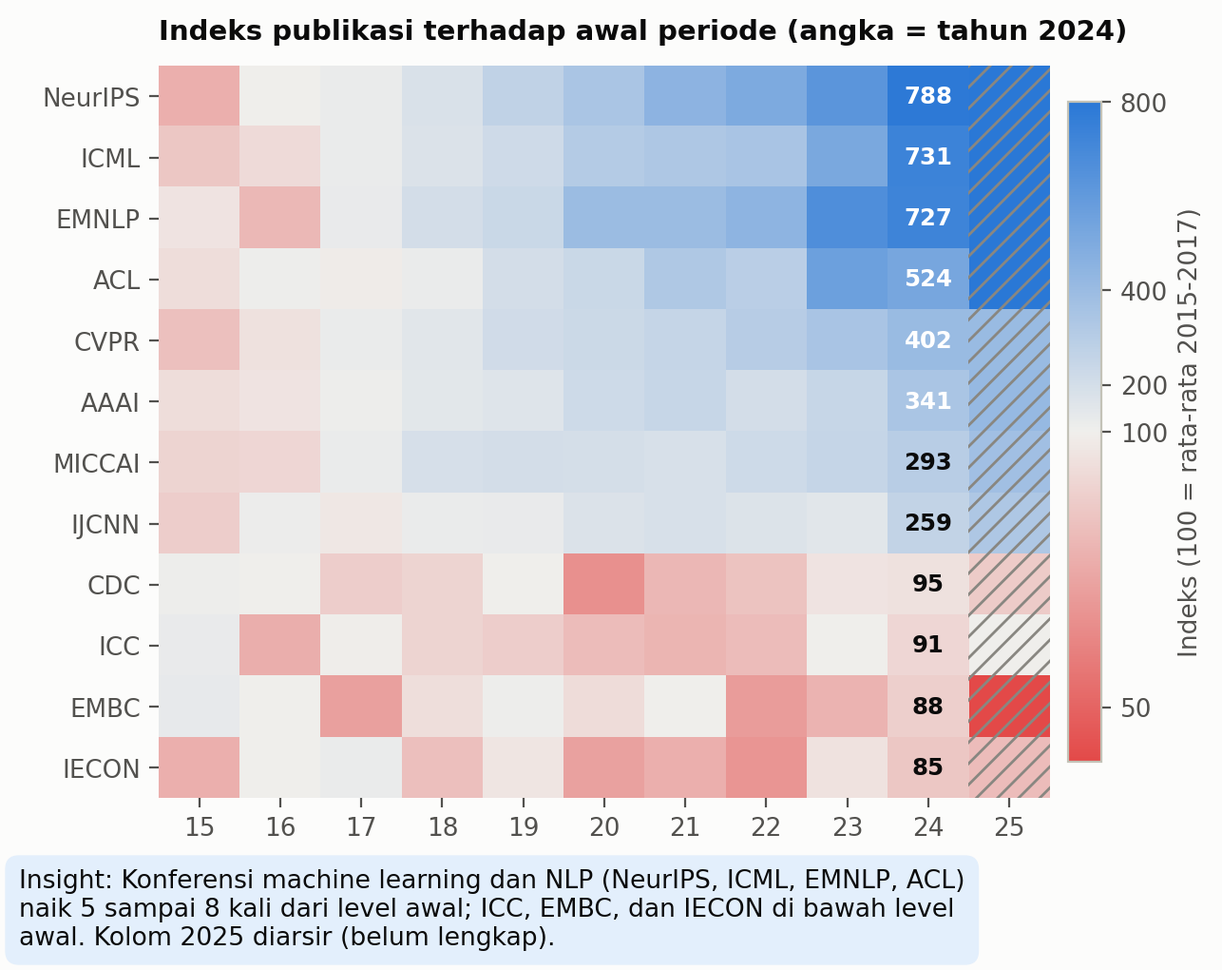
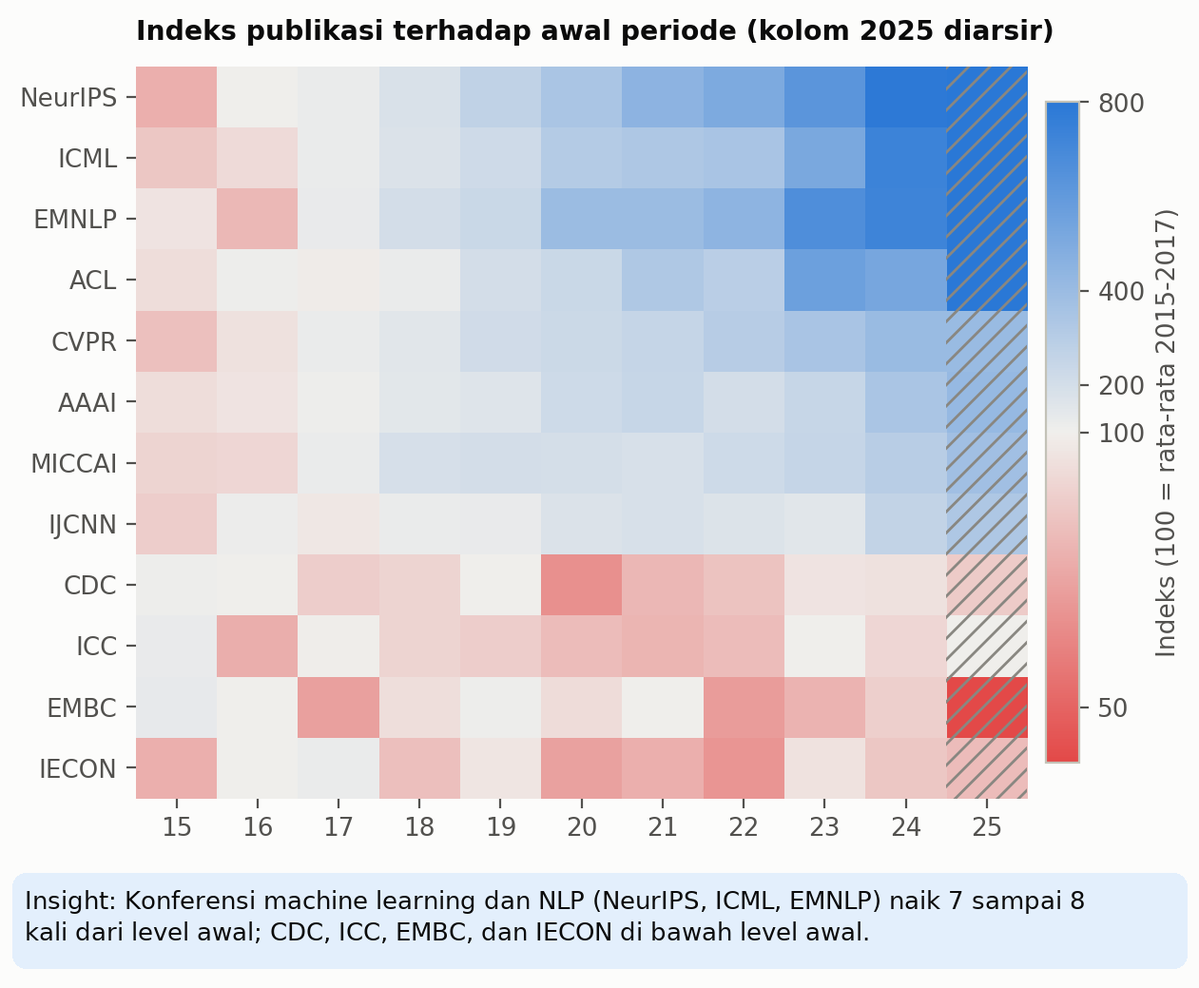
refactor(laporan): susun ulang bab sesuai brief penugasan
Bab hasil dipecah menjadi Hasil Preprocessing, Conference Popularity Analysis, Pembentukan Transactional Database, FPM, Association Rule, Performa, dan Temporal (yang belum dikerjakan dibiarkan kosong), ditambah Analisis dan Interpretasi serta Kesimpulan. Gambar PNG memakai versi beranotasi.

diff --git a/laporan/bab/bab6-transaksi.tex b/laporan/bab/bab6-transaksi.tex
@@ -1,7 +1,7 @@
-\section{Pembentukan \textit{Transactional Database} (\textit{Task} 3)}
-\label{sec:hasil-t3}
+\chapter{HASIL PEMBENTUKAN \textit{TRANSACTIONAL DATABASE}}
+\label{chap:transaksi}
 
-\subsection{Pembentukan dua \textit{database}}
+\section{Pembentukan dua \textit{database}}
 \label{sec:hasil-bentuk}
 Dua \textit{transactional database} dibentuk dari 7.870.902 pasangan makalah-penulis dengan aturan pada Subbab~\ref{sec:met-transaksi}. Pada \textit{author-based}, terbentuk 1.821.757 transaksi dengan 4.853.675 pasangan transaksi-item. Pada \textit{author-year-based}, terbentuk 4.085.594 transaksi dengan 6.497.515 pasangan transaksi-item. Berkas hasil dan cuplikan isinya ditunjukkan pada Lampiran~\ref{lamp:transaksi}.
 
@@ -14,7 +14,7 @@ Gambar~\ref{fig:ilustrasi} memperlihatkan perbedaannya pada satu penulis nyata, 
 \label{fig:ilustrasi}
 \end{figure}
 
-\subsection{Sepuluh contoh transaksi}
+\section{Sepuluh contoh transaksi}
 \label{sec:hasil-contoh}
 Contoh dipilih acak (\textit{seed} 42) untuk tiap ukuran transaksi sehingga rentang dari kecil sampai besar terlihat. Tabel~\ref{tab:contoh-a} menunjukkan sepuluh transaksi \textit{author-based} dan Tabel~\ref{tab:contoh-ay} sepuluh transaksi \textit{author-year-based}. Nama \textit{venue} yang panjang dipotong dan \textit{venue} dengan nama sama diberi kunci dalam kurung siku.
 
@@ -64,7 +64,7 @@ Contoh dipilih acak (\textit{seed} 42) untuk tiap ukuran transaksi sehingga rent
 
 Transaksi berukuran empat sampai delapan item umumnya berisi \textit{venue} dari bidang yang tampak berdekatan. Contoh 25 item (\textit{Haibo Zhang}) mencampur banyak \textit{venue} yang tidak seragam dan kemungkinan menggabungkan lebih dari satu orang yang bernama sama. Pada \textit{author-year-based}, penulis yang sama dapat muncul pada beberapa transaksi dengan tahun berbeda sehingga tahun menjadi bagian dari identitas transaksi. Transaksi besar jauh lebih langka pada \textit{author-year-based}: hanya 1.261 transaksi (0,03\%) berisi lebih dari 20 item, dibanding 17.533 (0,96\%) pada \textit{author-based}.
 
-\subsection{Jumlah transaksi, item unik, dan distribusi}
+\section{Jumlah transaksi, item unik, dan distribusi}
 \label{sec:hasil-statistik-tx}
 Tabel~\ref{tab:statistik-tx} merangkum statistik kedua \textit{database}. Kedua \textit{database} memuat seluruh 4.373 \textit{venue} sebagai item unik. \textit{Author-year-based} memiliki 2,24 kali lebih banyak transaksi karena penulis yang aktif beberapa tahun menjadi beberapa transaksi. Namun, jumlah pasangan transaksi-item hanya naik 1,34 kali sehingga transaksinya jauh lebih kecil.
 
@@ -122,7 +122,7 @@ lebih dari 20 & 17.533 & 0,96 & 1.261 & 0,03 \\
 \label{fig:komposisi}
 \end{figure}
 
-\subsection{Jumlah makalah di balik satu transaksi}
+\section{Jumlah makalah di balik satu transaksi}
 \label{sec:hasil-npaper}
 Seorang penulis dapat menerbitkan beberapa makalah pada satu tahun, dan hal itu tidak terlihat pada transaksinya. Pada \textit{author-year-based}, setiap tahun menjadi transaksi terpisah sehingga 2024 dan 2025 menjadi dua transaksi. Pada \textit{author-based}, seluruh tahun digabung dan tahun tidak tersimpan. Dalam satu transaksi, beberapa makalah pada \textit{venue} yang sama hanya menjadi satu item, dan beberapa makalah pada \textit{venue} berbeda menjadi beberapa item. Jumlah makalah tidak tersimpan pada transaksi, tetapi tersimpan pada kolom \texttt{n\_paper} tabel indeks dan dapat ditelusuri per makalah dari \texttt{paper\_author.parquet}. Tabel~\ref{tab:npaper} mengukur seberapa besar hal ini terjadi.
 
@@ -147,7 +147,7 @@ Transaksi dengan makalah lebih banyak daripada item & 29,9\% & 17,4\% \\
 
 Sifat ini adalah bawaan model transaksi standar (ada atau tidak ada) dan sesuai bunyi spesifikasi, yaitu daftar konferensi tempat penulis memublikasikan makalah. Keuntungannya, \textit{support} menjadi ukuran berapa banyak penulis (atau pasangan penulis dan tahun) yang menerbitkan di sebuah \textit{venue}, bukan berapa banyak makalah sehingga penulis yang sangat produktif pada satu \textit{venue} tidak mendominasi hasil. Kerugiannya, kekuatan keterkaitan hilang karena penulis dengan satu makalah di ICML dan satu di NeurIPS dihitung sama dengan penulis inti yang menerbitkan puluhan makalah di keduanya. Model himpunan tetap dipakai dan hal ini dicatat sebagai keterbatasan. Contohnya pada Gambar~\ref{fig:ilustrasi}: penulis tersebut menerbitkan dua makalah pada 2023 dan dua pada 2024, tetapi transaksi tiap tahun itu hanya berisi satu item karena kedua makalah berada pada \textit{venue} yang sama.
 
-\subsection{\textit{Support} item dan ambang \textit{min\_sup}}
+\section{\textit{Support} item dan ambang \textit{min\_sup}}
 \label{sec:hasil-support-item}
 Dua ukuran berikut tidak diminta langsung, tetapi menentukan rancangan \textit{Task} 4. Tabel~\ref{tab:item-frequent} menunjukkan banyaknya item yang lolos tiap \textit{min\_sup}.
 
@@ -178,7 +178,7 @@ Dua ukuran berikut tidak diminta langsung, tetapi menentukan rancangan \textit{T
 
 \textit{Support} setiap \textit{venue} lebih rendah pada \textit{author-year-based} (Gambar~\ref{fig:support-item}) karena penyebutnya naik 2,24 kali, sedangkan jumlah transaksi yang memuat \textit{venue} naik lebih sedikit. NeurIPS memiliki \textit{support} tertinggi, yaitu 3,17\% pada \textit{author-based} dan 2,34\% pada \textit{author-year-based}, disusul CVPR (2,62\% dan 2,07\%), AAAI (2,55\% dan 1,72\%), ICASSP (2,31\% dan 1,64\%), dan EMBC (2,16\% dan 1,38\%). Ambang yang sama meloloskan lebih sedikit item pada \textit{author-year-based}, dan ambang absolutnya lebih tinggi (4.086 dibanding 1.822 transaksi pada 0,1\%). Hanya 13,1\% \textit{venue} (574 dari 4.373) yang lolos \textit{min\_sup} 0,1\%, dan hanya enam yang lolos 2\%. Karena pasangan \textit{venue} teratas hanya memiliki \textit{support} 1,02\% (Tabel~\ref{tab:top-pasangan}), \textit{min\_sup} 2\% diperkirakan tidak menghasilkan \textit{itemset} berukuran dua pada \textit{Task} 4. Ini perkiraan yang harus dikonfirmasi oleh hasil \textit{mining}.
 
-\subsection{Beban kombinasi}
+\section{Beban kombinasi}
 \label{sec:hasil-beban}
 Beban kombinasi $B = \sum_{t} \binom{|t|}{2}$ adalah jumlah pasangan item yang dapat dibentuk dari seluruh transaksi. Ukuran ini kasar dan bukan waktu proses. Tabel~\ref{tab:beban} menunjukkan bahwa beban terkonsentrasi pada transaksi terbesar dan bahwa pemangkasan item di bawah \textit{min\_sup} memotong beban dengan tajam.
 
@@ -207,12 +207,12 @@ Porsi dari 10\% transaksi terbesar & 91,7\% & 83,1\% \\
 
 Sebanyak 0,1\% transaksi terbesar (sekitar 1.800) menanggung 27,8\% beban \textit{author-based}, dan 10\% terbesar menanggung 91,7\%. \textit{Author-year-based} memiliki beban 3,7 kali lebih rendah dengan konsentrasi yang lebih rendah. Pemangkasan item mengurangi beban \textit{author-based} dari 21,9 juta menjadi 10,2 juta pada 0,1\% dan 82.850 pada 2\%. Dugaan bahwa Apriori paling berat pada \textit{author-based} dengan \textit{min\_sup} 0,1\% harus dibuktikan pada \textit{Task} 6.
 
-\subsection{Perbedaan kedua representasi}
+\section{Perbedaan kedua representasi}
 \label{sec:hasil-banding-repr}
-\subsubsection{Perbedaan makna}
+\subsection{Perbedaan makna}
 Pada \textit{author-based}, dua \textit{venue} dianggap muncul bersama jika seorang penulis pernah menerbitkan di keduanya kapan saja pada 2015--2025. Pertanyaan yang dijawabnya adalah \textit{venue} apa saja yang dipilih penulis yang sama selama sebelas tahun. Pada \textit{author-year-based}, keduanya harus diterbitkan pada tahun yang sama sehingga pertanyaan yang dijawabnya adalah \textit{venue} apa yang dipilih bersamaan oleh penulis yang sama pada tahun yang sama. Pada penulis contoh (Gambar~\ref{fig:ilustrasi}), \textit{author-based} menyediakan 15 pasangan \textit{venue} yang dapat muncul bersama, sedangkan \textit{author-year-based} hanya enam. Selisih sembilan pasangan adalah pasangan lintas tahun, misalnya CCTA pada 2021 dengan ACC pada 2024. Hal ini bukan aturan umum karena pasangan yang berulang pada beberapa tahun dihitung berulang pada \textit{author-year-based}.
 
-\subsubsection{Perbandingan pada seluruh \textit{database}}
+\subsection{Perbandingan pada seluruh \textit{database}}
 Pasangan dihitung hanya antar \textit{venue} dengan \textit{support} minimal 0,1\% pada \textit{author-based} (574 \textit{venue}, 164.451 pasangan yang mungkin). Ini pratinjau perbandingan, bukan \textit{mining} sebenarnya (\textit{Task} 4). Tabel~\ref{tab:banding-repr} merangkum hasilnya dan Tabel~\ref{tab:top-pasangan} menunjukkan sepuluh pasangan teratas.
 
 \begin{table}[ht]
@@ -266,7 +266,7 @@ ICRA + IROS & 11.860 & 0,65\% & 9.502 & 0,23\% & 11 & 0,80 \\
 
 \textit{Support} pasangan turun tajam pada \textit{author-year-based} (median 0,29 kali; Gambar~\ref{fig:support-pasangan}). Penurunan ini hampir seluruhnya berasal dari penyebut. Jumlah transaksi yang memuat pasangan hanya turun ke 0,65 kali, sedangkan jumlah transaksi \textit{database} naik 2,24 kali (0,65 dibagi 2,24 sama dengan sekitar 0,29). Jadi, \textit{min\_sup} yang sama berarti ambang absolut yang lebih tinggi pada \textit{author-year-based}. Urutan relatifnya terjaga: 18 dari 20 pasangan teratas sama dan korelasi peringkatnya 0,892, dengan ICML+NeurIPS tetap peringkat satu dan ICLR+NeurIPS peringkat dua. Perubahan peringkat memperlihatkan efek representasi. ACL+EMNLP naik dari peringkat 6 ke 3 dan jumlah transaksinya bahkan 1,05 kali \textit{author-based}, karena penulis yang konsisten menerbitkan di keduanya setiap tahun dihitung berulang. AAAI+NeurIPS turun dari peringkat 3 ke 6. Hanya 4 dari 100 pasangan teratas yang mencapai rasio minimal 1.
 
-\subsubsection{Kasus ekstrem: konferensi dua tahunan berselang}
+\subsection{Kasus ekstrem: konferensi dua tahunan berselang}
 ICCV dan ECCV adalah konferensi dua tahunan yang berselang tahun sehingga tidak pernah diselenggarakan pada tahun yang sama (Tabel~\ref{tab:iccv}). Pada \textit{author-based}, 27.077 transaksi memuat ICCV, 23.591 memuat ECCV, dan 10.051 memuat keduanya. Pada \textit{author-year-based}, tidak ada satu pun transaksi yang memuat keduanya. Asosiasi nyata antara kedua komunitas ini tidak dapat terdeteksi sama sekali pada \textit{author-year-based}. Ini keterbatasan struktural, bukan kebetulan data.
 
 \begin{table}[ht]
@@ -284,7 +284,7 @@ ECCV & 0 & 1.986 & 0 & 3.770 & 0 & 6.001 & 0 & 7.869 & 0 & 11.930 & 0 \\
 \end{tabular}
 \end{table}
 
-\subsection{Kelebihan dan keterbatasan untuk \textit{frequent pattern mining}}
+\section{Kelebihan dan keterbatasan untuk \textit{frequent pattern mining}}
 \label{sec:hasil-kelebihan}
 Tabel~\ref{tab:kelebihan} merangkum kelebihan dan keterbatasan kedua representasi untuk \textit{frequent pattern mining}.
 
@@ -321,7 +321,7 @@ Tabel~\ref{tab:kelebihan} merangkum kelebihan dan keterbatasan kedua representas
 
 Kedua representasi menjawab pertanyaan yang berbeda, dan keduanya valid. Untuk pertanyaan \textit{Task} 4, yaitu kombinasi konferensi yang sering muncul bersama dalam riwayat publikasi penulis, \textit{author-based} lebih sesuai karena riwayat yang dimaksud mencakup seluruh periode. \textit{Author-year-based} lebih sesuai untuk analisis temporal (Bagian E) karena tahun menjadi bagian transaksi dan periode dapat dipisahkan. Pada kedua representasi, mayoritas transaksi hanya berisi satu item dan sebagian kecil transaksi besar menanggung sebagian besar beban kombinasi. Hal ini penting untuk \textit{Task} 4 karena \textit{min\_sup} dihitung terhadap seluruh transaksi dan waktu proses kemungkinan didominasi transaksi besar.
 
-\subsection{Jawaban pertanyaan \textit{Task} 3}
+\section{Jawaban pertanyaan \textit{Task} 3}
 \label{sec:jawab-t3}
 \textbf{Pembentukan database.} Dua \textit{transactional database} dibentuk dari 7.870.902 pasangan makalah-penulis dengan \textit{venue} sebagai item. Pada \textit{author-based}, setiap transaksi mewakili satu penulis dan berisi himpunan \textit{venue} tempat ia menerbitkan makalah selama 2015--2025 sehingga terbentuk 1.821.757 transaksi. Pada \textit{author-year-based}, setiap transaksi mewakili satu kombinasi penulis dan tahun dan berisi himpunan \textit{venue} pada tahun itu sehingga terbentuk 4.085.594 transaksi. Kedua \textit{database} memuat 4.373 \textit{venue} sebagai item unik.
 

diff --git a/laporan/bab/bab5-popularitas.tex b/laporan/bab/bab5-popularitas.tex
@@ -1,5 +1,5 @@
-\section{Analisis Popularitas Konferensi (\textit{Task} 2)}
-\label{sec:hasil-t2}
+\chapter{HASIL \textit{CONFERENCE POPULARITY ANALYSIS}}
+\label{chap:popularitas}\label{sec:hasil-t2}
 Popularitas diukur dengan jumlah publikasi dan jumlah penulis unik (Subbab~\ref{sec:met-popularitas}). Nama lengkap konferensi yang disebut pada subbab ini diambil dari judul prosiding edisi utama terbaru pada \textit{dump} dan tercantum pada Tabel~\ref{tab:nama}.
 
 \begin{table}[ht]
@@ -26,7 +26,7 @@ IROS & \textit{IEEE/RSJ International Conference on Intelligent Robots and Syste
 \end{tabularx}
 \end{table}
 
-\subsection{Sepuluh konferensi dengan publikasi terbanyak}
+\section{Sepuluh konferensi dengan publikasi terbanyak}
 \label{sec:hasil-top-pub}
 Tabel~\ref{tab:top-pub} dan Gambar~\ref{fig:top-pub} menunjukkan sepuluh konferensi dengan publikasi terbanyak. NeurIPS berada di peringkat pertama dengan 25.455 makalah (1,27\% dari seluruh \textit{dataset}), disusul CVPR (22.751) dan ICASSP (21.606).
 
@@ -61,7 +61,7 @@ Tabel~\ref{tab:top-pub} dan Gambar~\ref{fig:top-pub} menunjukkan sepuluh konfere
 
 Sepuluh konferensi teratas menghasilkan 9,4\% seluruh publikasi. Daftar ini terbagi menjadi dua kelompok: enam konferensi pertama berada di atas 19.000 makalah, dan peringkat 7 sampai 10 berada rapat pada 14.300 sampai 14.800 makalah. Batas sepuluh besar sangat tipis karena ICC (14.329) hanya unggul 86 makalah dari GLOBECOM (14.243, peringkat 11). Daftar ini lintas bidang. Empat dari sepuluh tempat ditempati konferensi kecerdasan buatan dan pemrosesan bahasa alami (NeurIPS, CVPR, AAAI, EMNLP). Sisanya mencakup sinyal dan penginderaan jauh (ICASSP, IGARSS), interaksi manusia dan komputer (HCI, CHI), serta biomedis dan komunikasi (EMBC, ICC). Pengelompokan bidang ini adalah pengetahuan umum, bukan atribut dari data DBLP. Daftar ini bergantung pada keputusan menggabungkan \textit{workshop} ke konferensi induk (Subbab~\ref{sec:hasil-sensitivitas}).
 
-\subsection{Sepuluh konferensi dengan penulis unik terbanyak}
+\section{Sepuluh konferensi dengan penulis unik terbanyak}
 \label{sec:hasil-top-author}
 Tabel~\ref{tab:top-author} dan Gambar~\ref{fig:top-author} menunjukkan sepuluh konferensi dengan penulis unik terbanyak.
 
@@ -96,7 +96,7 @@ Tabel~\ref{tab:top-author} dan Gambar~\ref{fig:top-author} menunjukkan sepuluh k
 
 Pada seluruh konferensi di daftar ini, penulis unik lebih banyak daripada jumlah makalah karena satu makalah ditulis beberapa orang. Ukuran makalah per penulis menunjukkan seberapa sering penulis kembali. IGARSS (2,64) dan CVPR (2,50) tertinggi, artinya rata-rata penulis menerbitkan dua sampai tiga makalah di sana. AAAI, HCI, IROS, dan EMBC terendah (sekitar 1,83), artinya komunitasnya lebih luas dan lebih banyak penulis yang hanya muncul satu kali. Dua konferensi baru muncul dibanding daftar publikasi, yaitu ICML dan IROS, sedangkan CHI dan ICC keluar dari daftar.
 
-\subsection{Tren publikasi per tahun}
+\section{Tren publikasi per tahun}
 \label{sec:hasil-tren}
 Tren seluruh \textit{dataset} telah dibahas pada Subbab~\ref{sec:hasil-tahun}. Gambar~\ref{fig:tren-top10} memperlihatkan tren sepuluh konferensi teratas dan Tabel~\ref{tab:pertumbuhan} merangkum pertumbuhannya dari 2015 ke 2024.
 
@@ -140,14 +140,14 @@ Empat konferensi kecerdasan buatan dan pemrosesan bahasa alami (NeurIPS, EMNLP, 
 
 Konsentrasi publikasi meningkat. Porsi sepuluh konferensi teratas terhadap seluruh publikasi sebesar 7,0\% pada 2015, turun ke titik terendah 6,5\% pada 2017, lalu naik menjadi 8,2\% (2019), 10,0\% (2021), dan 11,7\% (2024). Kenaikan berlangsung sejak 2017 sehingga bukan semata akibat data 2025 yang tidak lengkap. Gambar~\ref{fig:heatmap} memperluas pengamatan ke dua belas konferensi (delapan dengan indeks 2024 tertinggi dan empat terendah, dari dua puluh konferensi terbesar) dengan indeks terhadap rata-rata 2015--2017 konferensi itu sendiri (100 berarti sama dengan awal periode). Pada 2024, NeurIPS mencapai indeks 788, ICML 731, EMNLP 727, ACL 524, dan CVPR 402, sedangkan ICC (91), EMBC (88), dan IECON (86) berada di bawah level awal. ICLR dikeluarkan dari \textit{heatmap} karena DBLP tidak mencatatnya pada 2015 dan 2016 sehingga rata-rata awalnya tidak adil. Sejak 2017, ICLR tumbuh dari 309 menjadi 2.454 makalah pada 2024 sehingga termasuk konferensi dengan pertumbuhan tercepat.
 
-\begin{sidewaysfigure}
+\begin{figure}[ht]
 \centering
-\includegraphics[width=\textheight,height=0.66\textwidth,keepaspectratio]{images/hasil/t2_heatmap_tren_top20.png}
+\includegraphics[width=0.78\textwidth]{images/hasil/t2_heatmap_tren_top20.png}
 \caption{Indeks publikasi dua belas konferensi terhadap rata-rata 2015--2017 (\textit{heatmap}); angka pada kolom 2024 adalah indeksnya}
 \label{fig:heatmap}
-\end{sidewaysfigure}
+\end{figure}
 
-\subsection{Perbandingan peringkat publikasi dan penulis unik}
+\section{Perbandingan peringkat publikasi dan penulis unik}
 \label{sec:hasil-banding}
 Tabel~\ref{tab:banding} dan Gambar~\ref{fig:slope} membandingkan peringkat kedua ukuran. Selisih adalah peringkat publikasi dikurangi peringkat penulis sehingga nilai positif berarti naik pada peringkat penulis unik.
 
@@ -194,7 +194,7 @@ Gambar~\ref{fig:scatter} menunjukkan hubungan kedua ukuran pada seluruh \textit{
 \label{fig:scatter}
 \end{figure}
 
-\subsection{Uji sensitivitas terhadap keputusan \textit{venue}}
+\section{Uji sensitivitas terhadap keputusan \textit{venue}}
 \label{sec:hasil-sensitivitas}
 Karena \textit{venue} diambil dari \textit{key}, \textit{workshop} dan acara pendamping ikut terhitung sebagai konferensi induknya. Untuk menguji apakah kesimpulan bergantung pada keputusan itu, peringkat dihitung ulang tanpa acara satelit yang dikenali dari kata kunci \textit{booktitle} (Subbab~\ref{sec:satelit}). Pengenalan ini adalah pendekatan, bukan definisi pasti. Hasilnya ditunjukkan pada Tabel~\ref{tab:sensitivitas}.
 
@@ -223,7 +223,7 @@ ICML & 13.778 & 13.701 & 0,6\% & 12 & 9 \\
 
 Peringkat teratas relatif kuat. Delapan dari sepuluh konferensi teratas tetap sama dan NeurIPS tetap nomor satu, sedangkan ICML dan IROS masuk sepuluh besar dan CHI serta ICC keluar. Konferensi dengan banyak acara pendamping paling terpengaruh: CVPR (2 ke 6, karena \textit{CVPR Workshops}), ICC (10 ke 18, karena \textit{ICC Workshops}), dan CHI (7 ke 29, karena \textit{CHI Extended Abstracts} yang mencapai 44\%). Pernyataan bahwa CVPR adalah konferensi paling populer kedua bergantung pada definisi. Pernyataan itu benar jika \textit{workshop} dihitung bagian konferensi, sesuai pengelompokan DBLP, dan tidak benar jika hanya acara utama yang dihitung. Jawaban \textit{Task} 2 memakai definisi berbasis \textit{key}.
 
-\subsection{Jawaban pertanyaan \textit{Task} 2}
+\section{Jawaban pertanyaan \textit{Task} 2}
 \label{sec:jawab-t2}
 \textbf{Konferensi paling populer berdasarkan jumlah publikasi.} Dari 1.997.244 publikasi pada 2015--2025, NeurIPS memiliki publikasi terbanyak dengan 25.455 makalah (1,27\% dari seluruh \textit{dataset}), disusul CVPR (22.751) dan ICASSP (21.606). NeurIPS tetap berada di peringkat pertama ketika \textit{workshop} dan acara satelit dikeluarkan.
 

diff --git a/laporan/bab/bab4-prepro.tex b/laporan/bab/bab4-prepro.tex
@@ -1,7 +1,9 @@
-\section{Pemahaman Data dan \textit{Preprocessing} (\textit{Task} 1)}
-\label{sec:hasil-t1}
+\chapter{HASIL PREPROCESSING}
+\label{chap:prepro}
 
-\subsection{Jenis publikasi}
+Bab ini memuat jenis publikasi pada \textit{dump}, hasil tiap tahap \textit{preprocessing}, dan statistik \textit{dataset} bersih (\textit{Task} 1).
+
+\section{Jenis publikasi}
 \label{sec:hasil-jenis}
 Tabel~\ref{tab:jenis} menunjukkan jumlah \textit{record} per jenis publikasi pada seluruh \textit{dump} dan pada periode 2015--2025, dan Gambar~\ref{fig:jenis} menggambarkannya pada skala logaritmik.
 
@@ -37,7 +39,7 @@ Tabel~\ref{tab:jenis} menunjukkan jumlah \textit{record} per jenis publikasi pad
 
 Jenis \texttt{article} dan \texttt{www} menyumbang sekitar 67\% isi \textit{dump}, sedangkan \texttt{inproceedings} hanya 30,5\%. Separuh \texttt{inproceedings} (50,1\%) terbit pada 2015--2025. Jenis \texttt{www} hanya memiliki satu \textit{record} pada periode ini karena itu adalah halaman profil penulis yang umumnya tidak bertahun. Jenis \texttt{proceedings} adalah buku prosiding induk yang dirujuk lewat \texttt{crossref}, bukan makalah.
 
-\subsection{Hasil preprocessing}
+\section{Hasil preprocessing}
 \label{sec:hasil-prepro}
 Data berkurang dari 2.004.202 menjadi 1.997.244 makalah, yaitu 6.958 makalah (0,35\%) dibuang dan 99,65\% dipertahankan. Tabel~\ref{tab:dampak} merinci dampak tiap tahap dan Gambar~\ref{fig:alur-seleksi} memperlihatkan alurnya dari seluruh \textit{dump}.
 
@@ -100,7 +102,7 @@ Daftar penulis berbeda & 273 (19,9\%) & 421 \\
 \item Masalah sebaliknya lebih berpengaruh: nama umum tanpa sufiks mewakili banyak orang. \textit{Yang Liu} tercatat pada 332 \textit{venue} dan 725 makalah, dan \textit{Wei Wang} pada 280 \textit{venue}.
 \end{enumerate}
 
-\subsection{Statistik dataset bersih}
+\section{Statistik dataset bersih}
 \label{sec:hasil-statistik}
 Tabel~\ref{tab:statistik} merangkum statistik \textit{dataset} setelah \textit{preprocessing}. Seluruh angka dihitung dari tabel Parquet hasil \textit{preprocessing}. Pasangan makalah-penulis hampir empat kali jumlah makalah karena satu makalah memiliki beberapa penulis.
 
@@ -122,7 +124,7 @@ Penulis dengan satu makalah & 51,4\% \\
 \end{tabular}
 \end{table}
 
-\subsubsection{Distribusi per tahun}
+\subsection{Distribusi per tahun}
 \label{sec:hasil-tahun}
 Gambar~\ref{fig:per-tahun} menunjukkan jumlah publikasi per tahun. Jumlah publikasi naik dari 160.800 pada 2015 ke puncak 213.328 pada 2024, yaitu kenaikan 32,7\% atau CAGR 3,2\% per tahun. Garis tren linear menambah rata-rata 4.796 makalah per tahun. Pada 2020, jumlah turun 8,8\% dan tetap di bawah garis tren sampai 2022, lalu kembali di atasnya pada 2023 (naik 13,1\%). Kaitan penurunan ini dengan pandemi hanya dugaan karena data tidak memuat penyebabnya.
 
@@ -141,7 +143,7 @@ Penurunan 6,5\% pada 2025 bukan penurunan aktivitas. Sebanyak 789 konferensi akt
 \end{enumerate}
 Sebaliknya, 322 konferensi kosong pada 2024 tetapi aktif pada 2025 (17.785 makalah), umumnya konferensi dua tahunan ganjil. Jika 789 konferensi yang kosong dikeluarkan, jumlah makalah 2025 berada 21,7\% di atas 2024. Angka ini bukan ukuran pertumbuhan yang adil karena 322 konferensi yang hanya aktif pada 2025 tetap terhitung. Meskipun demikian, angka tersebut cukup untuk menunjukkan bahwa penurunan 6,5\% adalah efek komposisi. Karena itu 2025 digambar dengan arsiran dan tidak dipakai menghitung CAGR maupun garis tren.
 
-\subsubsection{Distribusi per konferensi}
+\subsection{Distribusi per konferensi}
 \label{sec:hasil-konferensi}
 Sepuluh konferensi teratas menghasilkan 9,4\% publikasi dan dua puluh teratas 15,6\%. Sebanyak 231 dari 4.373 \textit{venue} (5,3\%) menghasilkan separuh publikasi, dan 1.011 \textit{venue} (23,1\%) menghasilkan 80\%. Median \textit{venue} hanya memiliki 134 makalah selama sebelas tahun, dengan rata-rata 457 dan maksimum 25.455 (NeurIPS). Sebanyak 1.358 \textit{venue} (31,1\%) memiliki kurang dari 50 makalah. Distribusi ini sangat condong ke kanan: sedikit konferensi sangat besar dan banyak konferensi kecil (Gambar~\ref{fig:ukuran-venue}). Sepuluh konferensi terbesar dibahas pada Subbab~\ref{sec:hasil-t2}.
 
@@ -152,7 +154,7 @@ Sepuluh konferensi teratas menghasilkan 9,4\% publikasi dan dua puluh teratas 15
 \label{fig:ukuran-venue}
 \end{figure}
 
-\subsubsection{Distribusi penulis}
+\subsection{Distribusi penulis}
 \label{sec:hasil-penulis}
 Gambar~\ref{fig:waffle} membandingkan porsi penulis dan porsi pasangan makalah-penulis menurut jumlah makalah yang ditulis. Sebanyak 51,4\% penulis hanya menulis satu makalah, tetapi hanya menyumbang 11,9\% pasangan. Sebaliknya, 8,3\% penulis (11 makalah ke atas, 150.894 orang) menyumbang 52,6\% pasangan. Implikasinya, pola konferensi yang muncul bersama kemungkinan lebih banyak dibentuk oleh kelompok kecil penulis yang menerbitkan di banyak konferensi.
 

diff --git a/laporan/bab/bab11-analisis.tex b/laporan/bab/bab11-analisis.tex
@@ -1,0 +1,28 @@
+\chapter{ANALISIS DAN INTERPRETASI}
+\label{chap:analisis}
+
+Bab ini menafsirkan temuan \textit{Task} 1 sampai \textit{Task} 3 sebagai dasar eksperimen \textit{mining}. Interpretasi hasil \textit{frequent pattern mining}, \textit{association rules}, performa, dan analisis temporal ditambahkan setelah eksperimen tersebut selesai.
+
+\section{Makna Hasil Pemahaman Data}
+Tiga temuan pada Bab~\ref{chap:prepro} menentukan cara membaca seluruh hasil berikutnya.
+\begin{enumerate}
+\item \textbf{Venue adalah seri, dan batasnya bergantung pada \textit{key}.} \textit{Booktitle} memecah satu konferensi dan menyatukan konferensi berbeda, sehingga \textit{key} dipakai. Konsekuensinya, \textit{workshop} yang berbagi \textit{key} ikut terhitung sebagai konferensi induknya (7,2\% makalah). Setiap pernyataan peringkat pada laporan ini berlaku untuk definisi tersebut.
+\item \textbf{Data bersih secara struktural, tetapi identitas penulis tidak pasti.} Normalisasi nama tidak mengubah apa pun karena DBLP sudah menyajikan nama yang bersih. Risiko yang tersisa bukan pada penulisan nama, melainkan pada nama umum yang mewakili banyak orang (\textit{Yang Liu} pada 332 \textit{venue}).
+\item \textbf{Aktivitas sangat terkonsentrasi.} Separuh publikasi berasal dari 5,3\% \textit{venue}, dan 8,3\% penulis menyumbang 52,6\% pasangan makalah-penulis. Pola konferensi yang muncul bersama kemungkinan dibentuk oleh kelompok kecil penulis yang menerbitkan di banyak konferensi.
+\end{enumerate}
+
+\section{Makna Hasil Popularitas Konferensi}
+NeurIPS adalah konferensi paling populer pada kedua ukuran (jumlah publikasi dan penulis unik), dan peringkatnya tidak berubah ketika acara satelit dikeluarkan. Dua ukuran tersebut sangat selaras (Spearman 0,987), sehingga jumlah publikasi cukup mewakili popularitas pada tingkat konferensi. Perbedaan peringkat tengah dijelaskan oleh luas komunitas per makalah: AAAI dan EMBC menarik lebih banyak penulis berbeda per makalah daripada CHI dan ICC.
+
+Pertumbuhan tidak merata. Konferensi kecerdasan buatan dan pemrosesan bahasa alami tumbuh 3,6 sampai 10,2 kali, sedangkan konferensi komunikasi dan biomedis menurun, sehingga porsi sepuluh konferensi teratas naik dari 7,0\% menjadi 11,7\%. Hal ini menunjukkan perhatian peneliti berpindah ke bidang tertentu, tetapi data DBLP tidak memuat penyebabnya.
+
+\section{Makna Pilihan Representasi Transaksi}
+Dua representasi menjawab pertanyaan berbeda, dan perbedaannya terukur. \textit{Author-based} menangkap riwayat penulis selama sebelas tahun, sedangkan \textit{author-year-based} hanya menangkap kemunculan pada tahun yang sama. Akibatnya \textit{support} pasangan pada \textit{author-year-based} median 0,29 kali, sekitar 23\% pasangan tidak pernah muncul, dan konferensi dua tahunan berselang seperti ICCV dan ECCV tidak dapat berpasangan sama sekali. Pratinjau pasangan menunjukkan kandidat keterkaitan terkuat berada di antara konferensi kecerdasan buatan (ICML, NeurIPS, ICLR, CVPR), tetapi kandidat tersebut baru dapat disimpulkan setelah \textit{Task} 4 dan \textit{Task} 5.
+
+\section{Implikasi untuk Eksperimen Berikutnya}
+\begin{enumerate}
+\item \textit{Min support} 2\% diperkirakan tidak menghasilkan \textit{itemset} berukuran dua karena pasangan teratas hanya memiliki \textit{support} 1,02\%.
+\item Beban kombinasi terkonsentrasi pada transaksi terbesar (0,1\% transaksi menanggung 27,8\%), sehingga waktu proses kemungkinan ditentukan oleh sedikit transaksi.
+\item \textit{Lift} perlu dibaca bersama \textit{support}, karena \textit{venue} kecil dapat menghasilkan \textit{lift} besar secara kebetulan.
+\item Analisis temporal perlu memperlakukan 2025 dengan hati-hati karena datanya tidak lengkap.
+\end{enumerate}

diff --git a/laporan/lampiran/lampiran-a-pembagian-kerja.tex b/laporan/lampiran/lampiran-a-pembagian-kerja.tex
@@ -10,9 +10,9 @@
 \toprule
 \textbf{Anggota} & \textbf{Kode dan eksperimen} & \textbf{Laporan} \\
 \midrule
-Izhar Alif Akbar (18223129) & Ekstraksi dan \textit{preprocessing} (Task 1), analisis popularitas (Task 2) & Bab I, Bab II, Subbab IV.1--IV.2, integrasi \LaTeX \\
-Harfhan Ikhtiar (18223123) & \textit{Transactional database} (Task 3), implementasi Apriori, eksperimen Task 4 & Bab III, Subbab IV.3--IV.4 \\
-Mahesa Andre (13523140) & Implementasi FP-Growth, \textit{association rules} (Task 5), perbandingan performa (Task 6), analisis temporal & Subbab IV.5--IV.7, Bab V \\
+Izhar Alif Akbar (18223129) & Ekstraksi dan \textit{preprocessing} (Task 1), analisis popularitas (Task 2) & Bab I, Bab II, Bab IV--V, integrasi \LaTeX \\
+Harfhan Ikhtiar (18223123) & \textit{Transactional database} (Task 3), implementasi Apriori, eksperimen Task 4 & Bab III, Bab VI--VII \\
+Mahesa Andre (13523140) & Implementasi FP-Growth, \textit{association rules} (Task 5), perbandingan performa (Task 6), analisis temporal & Bab VIII--X, Bab XII \\
 Bersama & Tinjauan silang kode dan hasil & Presentasi dan pemeriksaan akhir \\
 \bottomrule
 \end{tabularx}

diff --git a/laporan/bab/bab8-rules.tex b/laporan/bab/bab8-rules.tex
@@ -1,0 +1,2 @@
+\chapter{HASIL \textit{ASSOCIATION RULE MINING}}
+\label{chap:rules}

diff --git a/laporan/bab/bab7-fpm.tex b/laporan/bab/bab7-fpm.tex
@@ -1,0 +1,2 @@
+\chapter{HASIL \textit{FREQUENT PATTERN MINING}}
+\label{chap:fpm}

diff --git a/laporan/bab/bab9-performa.tex b/laporan/bab/bab9-performa.tex
@@ -1,0 +1,2 @@
+\chapter{PERBANDINGAN PERFORMA ALGORITMA}
+\label{chap:performa}

diff --git a/laporan/bab/bab10-temporal.tex b/laporan/bab/bab10-temporal.tex
@@ -1,0 +1,2 @@
+\chapter{ANALISIS ASOSIASI TEMPORAL}
+\label{chap:temporal}
